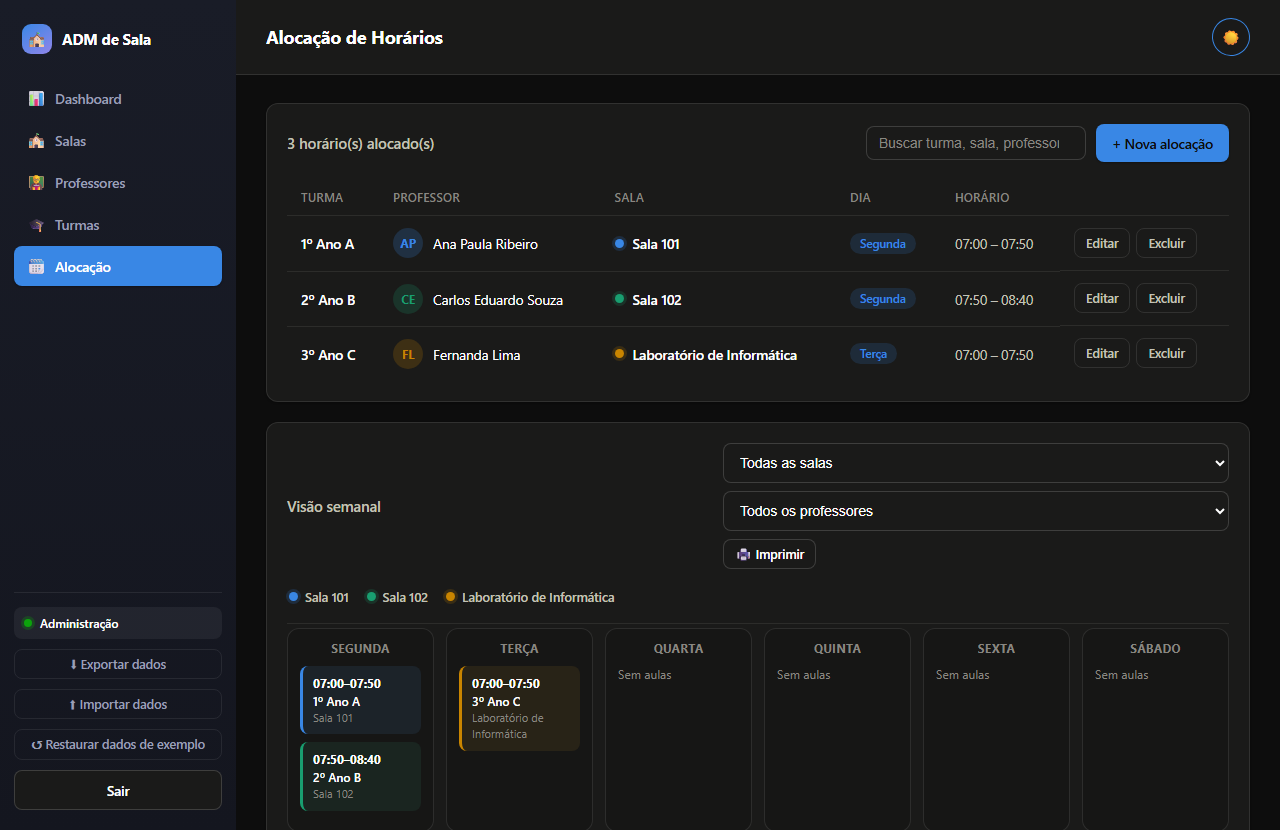
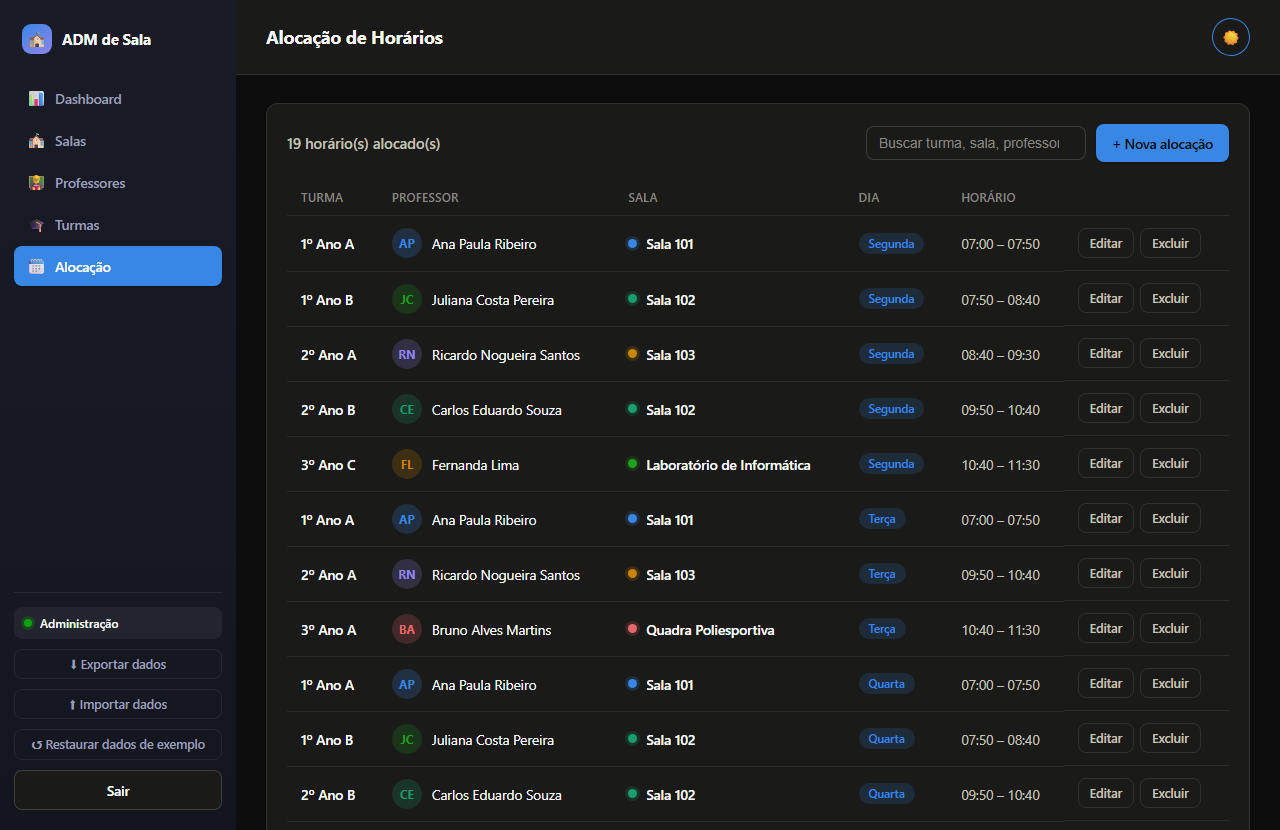
Atualiza CLAUDE.md, corrige responsividade estreita e atualiza screenshots do README
Documenta sidebar responsiva, gráfico do dashboard e o padrão de flash de
sucesso no CLAUDE.md. Corrige overflow do cabeçalho (busca + botão) em
telas muito estreitas (<375px). Screenshots do README atualizados para
refletir os dados de exemplo mais ricos.

diff --git a/projeto/css/components.css b/projeto/css/components.css
@@ -1,8 +1,8 @@
 .section-header { display: flex; align-items: center; justify-content: space-between; margin-bottom: 1.125rem; gap: 0.75rem; flex-wrap: wrap; }
 .section-header h2 { margin: 0; font-size: 0.90625rem; color: var(--text-secondary); font-weight: 600; }
 
-.header-actions { display: flex; align-items: center; gap: 0.625rem; }
-.header-actions--wrap { gap: 0.5rem; flex-wrap: wrap; }
+.header-actions { display: flex; align-items: center; gap: 0.625rem; flex-wrap: wrap; }
+.header-actions--wrap { gap: 0.5rem; }
 
 .section-gap { margin-bottom: 1.25rem; }
 

diff --git a/projeto/css/forms.css b/projeto/css/forms.css
@@ -56,6 +56,7 @@ input:focus, select:focus, textarea:focus {
 
 .search-input {
   width: 13.75rem;
+  max-width: 100%;
   padding: 0.5rem 0.75rem;
 }
 

diff --git a/CLAUDE.md b/CLAUDE.md
@@ -6,6 +6,8 @@ This file provides guidance to Claude Code (claude.ai/code) when working with co
 
 `ADM_DE_SALA` é um protótipo de sistema de gestão de salas, turmas e horários escolares. Todo o código vive em `projeto/`. É uma aplicação client-side pura (HTML/CSS/JavaScript vanilla) sem framework, sem bundler e sem backend — os dados persistem apenas no `localStorage` do navegador.
 
+Na raiz do repositório, fora de `projeto/`, existem duas pastas que não fazem parte do código do app: `apresentacao/` (slides de apresentação em `.html`/`.mhtml`, gerados à parte) e `screenshots/` (imagens usadas pelo `README.md`). Não há relação de build entre elas e `projeto/`.
+
 ## Comandos
 
 Não há `package.json`, build step, linter ou suíte de testes configurados neste repositório.
@@ -18,7 +20,7 @@ Não há `package.json`, build step, linter ou suíte de testes configurados nes
 
 ### Carregamento de scripts (ordem importa)
 
-`index.html` carrega 12 arquivos de `projeto/js/` como `<script>` clássicos (sem `type="module"`), todos compartilhando o mesmo escopo global `window`. A ordem em `index.html` é:
+`index.html` carrega 13 arquivos de `projeto/js/` como `<script>` clássicos (sem `type="module"`), todos compartilhando o mesmo escopo global `window`. A ordem em `index.html` é:
 
 ```
 state.js → theme.js → helpers.js → ui.js → data-io.js → auth.js → nav.js →
@@ -39,7 +41,11 @@ Todo o estado da aplicação vive num único objeto global `state` (`{ salas, pr
 
 Não há virtual DOM nem diffing. Cada seção (`Dashboard`, `Salas`, `Professores`, `Turmas`, `Alocação`) tem uma função `renderX()` que reconstrói o `innerHTML` do container inteiro a partir de `state`, usando template strings. `renderSection(section)` (em `nav.js`) despacha para a função de render correta; `navigateTo(section)` troca a seção visível e chama `renderSection`. Depois de qualquer mutação de dados, o padrão é chamar `renderAll()` (que re-renderiza a seção atualmente visível).
 
-Formulários e confirmações usam um modal genérico (`js/ui.js`: `openModal`/`closeModal`/`openConfirm`) que injeta HTML no `#modal-body` e usa `onclick` inline apontando para funções globais (ex.: `onclick="saveTurma('${id}')"`) — por isso essas funções precisam estar no escopo global.
+Formulários e confirmações usam um modal genérico (`js/ui.js`: `openModal`/`closeModal`/`openConfirm`) que injeta HTML no `#modal-body` e usa `onclick` inline apontando para funções globais (ex.: `onclick="saveTurma('${id}')"`) — por isso essas funções precisam estar no escopo global. O modal também prende o foco (`trapFocus`, chamado a partir do listener de `keydown` em `main.js`) e devolve o foco ao elemento que o abriu quando fecha.
+
+### Feedback visual ao salvar (`_lastSavedIds`)
+
+Depois de qualquer `saveX()` bem-sucedido (`saveSala`, `saveProfessor`, `saveTurma`, `saveAlocacao`), a função grava o(s) id(s) recém-criado(s)/editado(s) em `_lastSavedIds` (`state.js`) antes de chamar `renderAll()`. Cada `renderX()` chama `consumeFlashIds()` (`helpers.js`) uma única vez no início — isso lê `_lastSavedIds` e já o zera, então o destaque (`flashClass()`, classe CSS `.row-flash`) só aparece na renderização imediatamente seguinte ao save, nunca em re-renders posteriores (busca, navegação, etc.).
 
 ### Autenticação e permissões (`js/auth.js`, `js/state.js`)
 
@@ -66,3 +72,9 @@ Assim como o JS, o CSS é dividido em 11 arquivos por assunto, carregados via `<
 Tema claro/escuro via atributo `data-theme` na tag `<html>` (alternado por `js/theme.js`, persistido em `localStorage`), com fallback para `prefers-color-scheme` quando não há preferência salva. Todas as cores são custom properties CSS redefinidas por tema (`tokens.css`). Existe uma paleta categórica fixa (`--cat-1` a `--cat-8`) usada para colorir salas de forma consistente em toda a UI (lista de salas, tabela de alocação, grade semanal) — a cor de cada sala é derivada da sua posição no array `state.salas` (`salaColorVar()` em `js/helpers.js`) e passada via a custom property `--dot-color`/`--slot-color`/`--tile-color` inline no HTML gerado; a cor em si nunca é armazenada no dado. Todas as unidades de tamanho usam `rem` (base 16px), não `px`.
 
 Classes utilitárias para evitar `style="..."` inline nos arquivos JS: `.header-actions` / `.header-actions--wrap` (agrupar busca + botão no cabeçalho de seção), `.section-gap` (espaçamento entre cards), `.cell-strong` (célula de tabela em negrito), `.confirm-message` (texto do modal de confirmação). Inline `style="--dot-color:...;"` etc. só é usado para valores realmente dinâmicos (cor calculada por item); qualquer outro estilo repetido deve virar classe em `components.css` em vez de inline no JS.
+
+O dashboard também tem um gráfico de barras simples (`weekdayBarChartHtml()` em `dashboard.js`, estilos `.bar-*` em `components.css`) — é HTML/CSS puro (sem canvas/SVG/lib), altura de cada `.bar` calculada em `%` a partir da contagem de alocações por dia.
+
+### Responsividade da sidebar (`css/layout.css`, `js/main.js`)
+
+Abaixo de `60rem` (960px) a `.sidebar` some da tela (`transform: translateX(-100%)`) e vira um menu retrátil: um botão `#menu-toggle-btn` (só visível nesse breakpoint) mostra a sidebar por cima do conteúdo com um backdrop escurecido (`#sidebar-backdrop`). `openSidebar()`/`closeSidebar()` (`main.js`) alternam a classe `.open` na sidebar e `.hidden` no backdrop; clicar num item de navegação ou no backdrop fecha a gaveta. Acima do breakpoint essas classes não têm efeito — a sidebar volta a ser um bloco fixo no layout normal. Tabelas (`Salas`, `Professores`, `Turmas`, `Alocação`) ficam envolvidas por `.table-scroll` (`overflow-x: auto`) como rede de segurança em telas muito estreitas.
